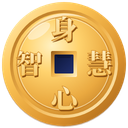
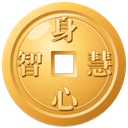
智慧幣圖示：中間方孔改為鏤空（透明）
Claude-Session: https://claude.ai/code/session_01VNireUxTxFMr9R23X82HfR

Changed region(s): [[0.4062, 0.4062, 0.5938, 0.5938]]

diff --git a/index.html b/index.html
@@ -1,4 +1,4 @@
-<!doctype html><html><head><meta charset=utf8><meta name=viewport content="width=device-width,initial-scale=1,maximum-scale=1,viewport-fit=cover"><style>:root{color-scheme:light;box-sizing:border-box;padding-top:env(safe-area-inset-top,0px);padding-bottom:env(safe-area-inset-bottom,0px)}html{scroll-padding-top:env(safe-area-inset-top,0px)}body{margin:0;padding:0;font:14px -apple-system,BlinkMacSystemFont,sans-serif;background:#fff;color:#000}img{max-width:100%}[hidden]:not([hidden=until-found i]){display:none!important}</style><title>身心智慧學院</title><!-- 加入主畫面：名稱、圖示、獨立 App 視窗（PWA / iOS） --><link rel="manifest" href="manifest.webmanifest?v=2"><meta name="application-name" content="身心智慧學院"><meta name="theme-color" content="#0e1838"><meta name="mobile-web-app-capable" content="yes"><meta name="apple-mobile-web-app-capable" content="yes"><meta name="apple-mobile-web-app-title" content="身心智慧學院"><meta name="apple-mobile-web-app-status-bar-style" content="black"><meta name="format-detection" content="telephone=no"><link rel="apple-touch-icon" href="icons/icon-180.png?v=2"><link rel="apple-touch-icon" sizes="180x180" href="icons/icon-180.png?v=2"><link rel="apple-touch-icon" sizes="167x167" href="icons/icon-167.png?v=2"><link rel="apple-touch-icon" sizes="152x152" href="icons/icon-152.png?v=2"><link rel="apple-touch-icon" sizes="120x120" href="icons/icon-120.png?v=2"><link rel="icon" type="image/png" sizes="32x32" href="icons/favicon-32.png?v=2"><link rel="icon" type="image/png" sizes="16x16" href="icons/favicon-16.png?v=2"><link rel="icon" href="favicon.ico?v=2" sizes="any"><meta name="app-version" content="20261128-094313"><script src="update.js?v=2"></script></head><body>
+<!doctype html><html><head><meta charset=utf8><meta name=viewport content="width=device-width,initial-scale=1,maximum-scale=1,viewport-fit=cover"><style>:root{color-scheme:light;box-sizing:border-box;padding-top:env(safe-area-inset-top,0px);padding-bottom:env(safe-area-inset-bottom,0px)}html{scroll-padding-top:env(safe-area-inset-top,0px)}body{margin:0;padding:0;font:14px -apple-system,BlinkMacSystemFont,sans-serif;background:#fff;color:#000}img{max-width:100%}[hidden]:not([hidden=until-found i]){display:none!important}</style><title>身心智慧學院</title><!-- 加入主畫面：名稱、圖示、獨立 App 視窗（PWA / iOS） --><link rel="manifest" href="manifest.webmanifest?v=2"><meta name="application-name" content="身心智慧學院"><meta name="theme-color" content="#0e1838"><meta name="mobile-web-app-capable" content="yes"><meta name="apple-mobile-web-app-capable" content="yes"><meta name="apple-mobile-web-app-title" content="身心智慧學院"><meta name="apple-mobile-web-app-status-bar-style" content="black"><meta name="format-detection" content="telephone=no"><link rel="apple-touch-icon" href="icons/icon-180.png?v=2"><link rel="apple-touch-icon" sizes="180x180" href="icons/icon-180.png?v=2"><link rel="apple-touch-icon" sizes="167x167" href="icons/icon-167.png?v=2"><link rel="apple-touch-icon" sizes="152x152" href="icons/icon-152.png?v=2"><link rel="apple-touch-icon" sizes="120x120" href="icons/icon-120.png?v=2"><link rel="icon" type="image/png" sizes="32x32" href="icons/favicon-32.png?v=2"><link rel="icon" type="image/png" sizes="16x16" href="icons/favicon-16.png?v=2"><link rel="icon" href="favicon.ico?v=2" sizes="any"><meta name="app-version" content="20261128-094855"><script src="update.js?v=2"></script></head><body>
 <title>身心智慧學院</title>
 <script src="diag.js?v=3"></script>
 <meta name="description" content="電影質感的身心智慧學院主畫面：光束、柔光暈、飛鳥與櫻花、雲海外圍、明亮的夜晚村莊。">
@@ -1403,7 +1403,7 @@
   // 智慧幣圖示：畫面上所有「🪙」自動換成學院自己的身心古錢幣圖（icons/coin.png，原始設計在 tools/coin-source.html）
   // 用 MutationObserver 處理，之後新增的文字也會自動替換；下拉選單、輸入框、屬性文字維持 🪙
   (function () {
-    var C = "\uD83E\uDE99", SRC = "icons/coin.png?v=1", HTML = "http://www.w3.org/1999/xhtml";
+    var C = "\uD83E\uDE99", SRC = "icons/coin.png?v=2", HTML = "http://www.w3.org/1999/xhtml";
     function mk() { var i = document.createElement("img"); i.className = "coin-i"; i.src = SRC; i.alt = "智慧幣"; i.draggable = false; return i; }
     function fix(t) {
       var p = t.parentNode; if (!p || p.namespaceURI !== HTML || /^(OPTION|TEXTAREA|TITLE|SCRIPT|STYLE|SELECT)$/.test(p.nodeName)) return;

diff --git a/tools/coin-source.html b/tools/coin-source.html
@@ -7,8 +7,10 @@
  <linearGradient id="hole" x1="0" y1="0" x2="1" y2="1"><stop offset="0" stop-color="#0c1638"/><stop offset="1" stop-color="#22306e"/></linearGradient>
  <linearGradient id="holeRim" x1="1" y1="1" x2="0" y2="0"><stop offset="0" stop-color="#fff2c8"/><stop offset=".5" stop-color="#f2b54c"/><stop offset="1" stop-color="#9a5d18"/></linearGradient>
  <linearGradient id="txt" x1="0" y1="0" x2="0" y2="1"><stop offset="0" stop-color="#fff6d6"/><stop offset="1" stop-color="#f6c45a"/></linearGradient>
+ <mask id="cut"><rect width="256" height="256" fill="#fff"/><rect x="109" y="109" width="38" height="38" rx="2" fill="#000"/></mask>
  <linearGradient id="gloss" x1="0" y1="0" x2="0" y2="1"><stop offset="0" stop-color="#fff" stop-opacity=".55"/><stop offset="1" stop-color="#fff" stop-opacity="0"/></linearGradient>
 </defs>
+<g mask="url(#cut)">
 <circle cx="128" cy="130" r="124" fill="#7a4610" opacity=".35"/>
 <circle cx="128" cy="128" r="124" fill="url(#rim)"/>
 <circle cx="128" cy="128" r="108" fill="url(#rimIn)"/>
@@ -20,8 +22,8 @@
  <g fill="url(#txt)" stroke="#d48e2c" stroke-width="1"><text x="128" y="78">身</text><text x="128" y="217">心</text><text x="58" y="147">智</text><text x="198" y="147">慧</text></g>
 </g>
 <rect x="102" y="102" width="52" height="52" rx="3" fill="url(#holeRim)"/>
-<rect x="109" y="109" width="38" height="38" rx="2" fill="url(#hole)"/>
-<path d="M110 110 L146 110 L140 116 L116 116 Z" fill="#000" opacity=".25"/>
+<rect x="109" y="109" width="38" height="38" rx="2" fill="none" stroke="#7a4610" stroke-width="2" opacity=".55"/>
 <path d="M40 92 A96 96 0 0 1 176 38 A110 110 0 0 0 40 92Z" fill="url(#gloss)"/>
 <ellipse cx="78" cy="62" rx="26" ry="11" transform="rotate(-35 78 62)" fill="#fff" opacity=".45"/>
+</g>
 </svg></body></html>
